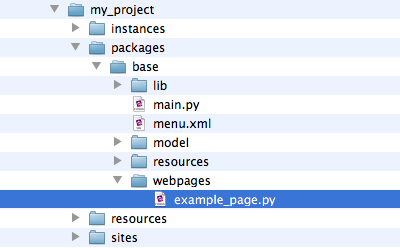
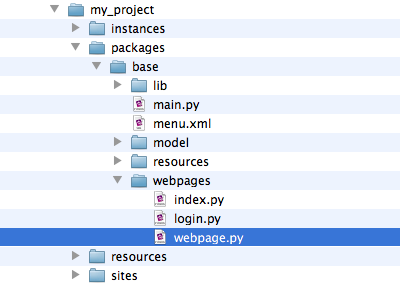
doc update

diff --git a/docs/genro/database/packages/main.rst b/docs/genro/database/packages/main.rst
@@ -68,9 +68,13 @@ autocreation of the ``main.py``
 description
 ===========
     
-    The first two lines define the encoding::
+    The ``main.py`` has to begin with a line code that specify the location to the python
+    executable in your machine::
     
         #!/usr/bin/env python
+    
+    Then follows the encoding definition line::
+    
         # -*- coding: utf-8 -*-
         
     (here we set the encoding to 'utf-8').
@@ -82,11 +86,12 @@ description
     .. warning:: the importation of these four packages is MANDATORY for a correct use of
                  the ``main.py`` file.
                  
-    In the ``main.py`` file you have many classes to customize your project:
+    In the ``main.py`` file you have many classes through which you can customize it:
     
     * the :ref:`main_package_class`
     * the :ref:`main_table_class`
-    * the add???
+    
+.. * the add??? other classes?
     
 .. _main_package_class:
 
@@ -193,10 +198,26 @@ loginUrl
     
     * ``packageName`` is the name of the :ref:`package <genro_packages_index>` that contains
       the login authorization page.
-    * ``loginName`` is the name of the :ref:`webpages_webpages` in which you define the login
-      authorization. For more information on how to build a login page, please check the
-      :ref:`genro_login` documentation page.
+    * ``loginName`` is the name of the :ref:`webpages_webpages` (without its ``.py`` extensions)
+      in which you define the login authorization.
       
+    **Example:** if you have a package called ``staff`` and your login webpage is called
+    ``my_great_login.py``, then your ``loginUrl`` method should be::
+    
+        def loginUrl(self):
+            return 'staff/my_great_login'
+            
+    .. note:: We suggest you to use ``login.py`` as default name for the login page; if you do so,
+              your ``loginUrl`` should be::
+              
+                def loginUrl(self):
+                    return 'packageName/login'
+                    
+              where ``packageName`` is the name of your package.
+    
+    For more information on how to build a login page, please check the :ref:`webpages_login`
+    documentation page.
+    
 .. add??? Understand if the following methods are old or new...
 .. 
 .. def newUserUrl(self):

diff --git a/docs/genro/database/packages/webpages/webpage_login.rst b/docs/genro/database/packages/webpages/webpage_login.rst
@@ -1,0 +1,15 @@
+.. _webpages_login:
+
+============
+``login.py``
+============
+
+    .. image:: ../../../images/projects/webpage_login.png
+    
+    The ``login.py`` is a :ref:`webpages_GnrCustomWebPage` that handle the login authorizations.
+    
+    .. note:: you don't have to call this page necessarily ``login.py``, because the name you
+              need to give to this page is defined in the ``loginUrl`` method. Check the
+              :ref:`methods_loginUrl` documentation section for more information.
+              
+    

diff --git a/docs/genro/database/packages/webpages/webpages.rst b/docs/genro/database/packages/webpages/webpages.rst
@@ -34,12 +34,6 @@ GnrCustomWebPage
     :ref:`introduction to webpage elements <genro_webpage_elements_intro>` if you need
     to learn more about them.
     
-    We are going now to introduce the :ref:`webpages_GnrCustomWebPage`, the standard class
-    used to build the webpages.
-    
-    add??? (this isn't a real GnrCustomWebPage class, it is created through a GnrWebPage
-    istance...)
-    
     The GnrCustomWebPage (Genro Custom Webpage) is add???(a mixin class?) through which you can
     build your webpages.
     

diff --git a/docs/genro/database/packages/webpages/introduction.rst b/docs/genro/database/packages/webpages/introduction.rst
@@ -1,0 +1,17 @@
+.. _webpages_intro:
+
+============
+introduction
+============
+
+    .. image:: ../../../images/projects/webpages.png
+    
+    In the ``webpages`` folder you can keep all your :ref:`webpages_webpages`.
+    
+    In Genropy, a webpage is written as a Python file.
+    
+    In addition to the webpages that you can create, there are some *standard*
+    webpages, that are:
+    
+    * the :ref:`webpages_index` page.
+    * the :ref:`webpages_login` page.    

diff --git a/docs/genro/database/packages/webpages/index.rst b/docs/genro/database/packages/webpages/index.rst
@@ -6,13 +6,10 @@
 
     .. image:: ../../../images/projects/webpages.png
     
-    In the ``webpages`` folder you can:
-    
-    * put your webpages: check the :ref:`webpages_webpages` documentation page
-    * put your resources (javascript files, CSS files and components files):
-      check the :ref:`genro_intro_resources` documentation page
-
 .. toctree::
     :maxdepth: 1
     
+    introduction
     webpages
+    webpage_index
+    webpage_login

diff --git a/docs/genro/database/packages/webpages/webpage_index.rst b/docs/genro/database/packages/webpages/webpage_index.rst
@@ -1,0 +1,9 @@
+.. _webpages_index:
+
+============
+``index.py``
+============
+
+    .. image:: ../../../images/projects/webpage_index.png
+    
+    The ``index.py`` is a :ref:`webpages_GnrCustomWebPage` ... add???

diff --git a/docs/genro/miscellaneous/index.rst b/docs/genro/miscellaneous/index.rst
@@ -14,7 +14,6 @@ Documents to revise
     fine_syntax
     grid
     languages
-    login
     palette
     print
     query
